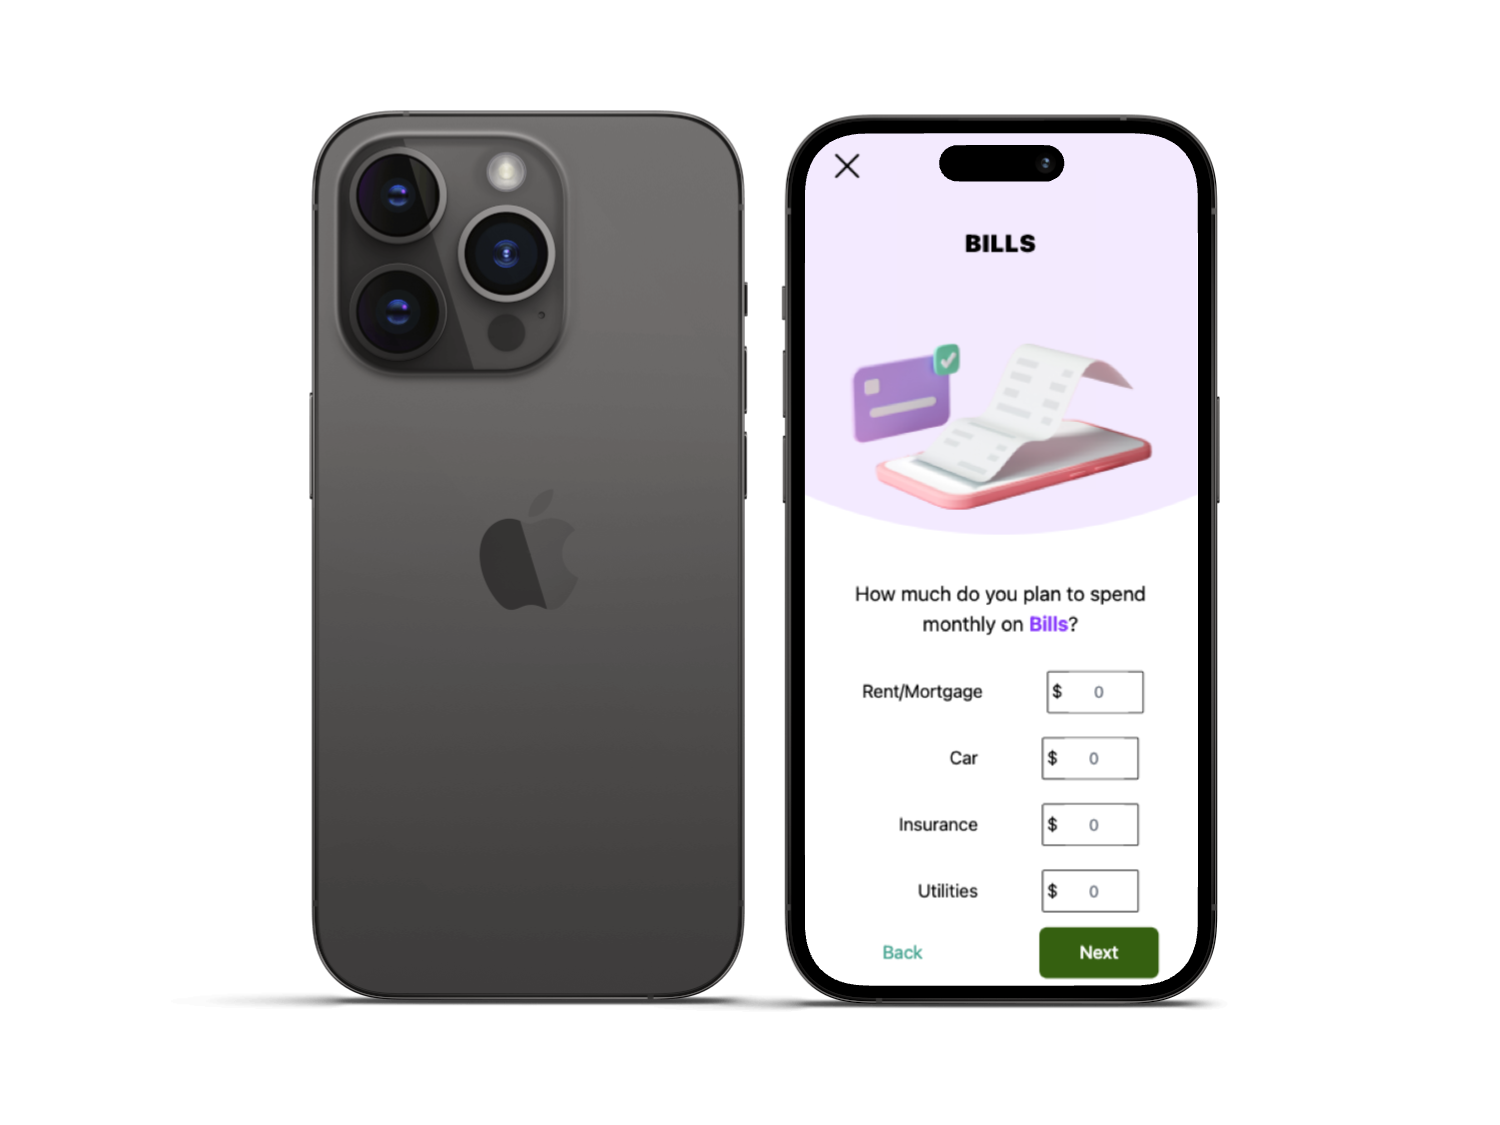
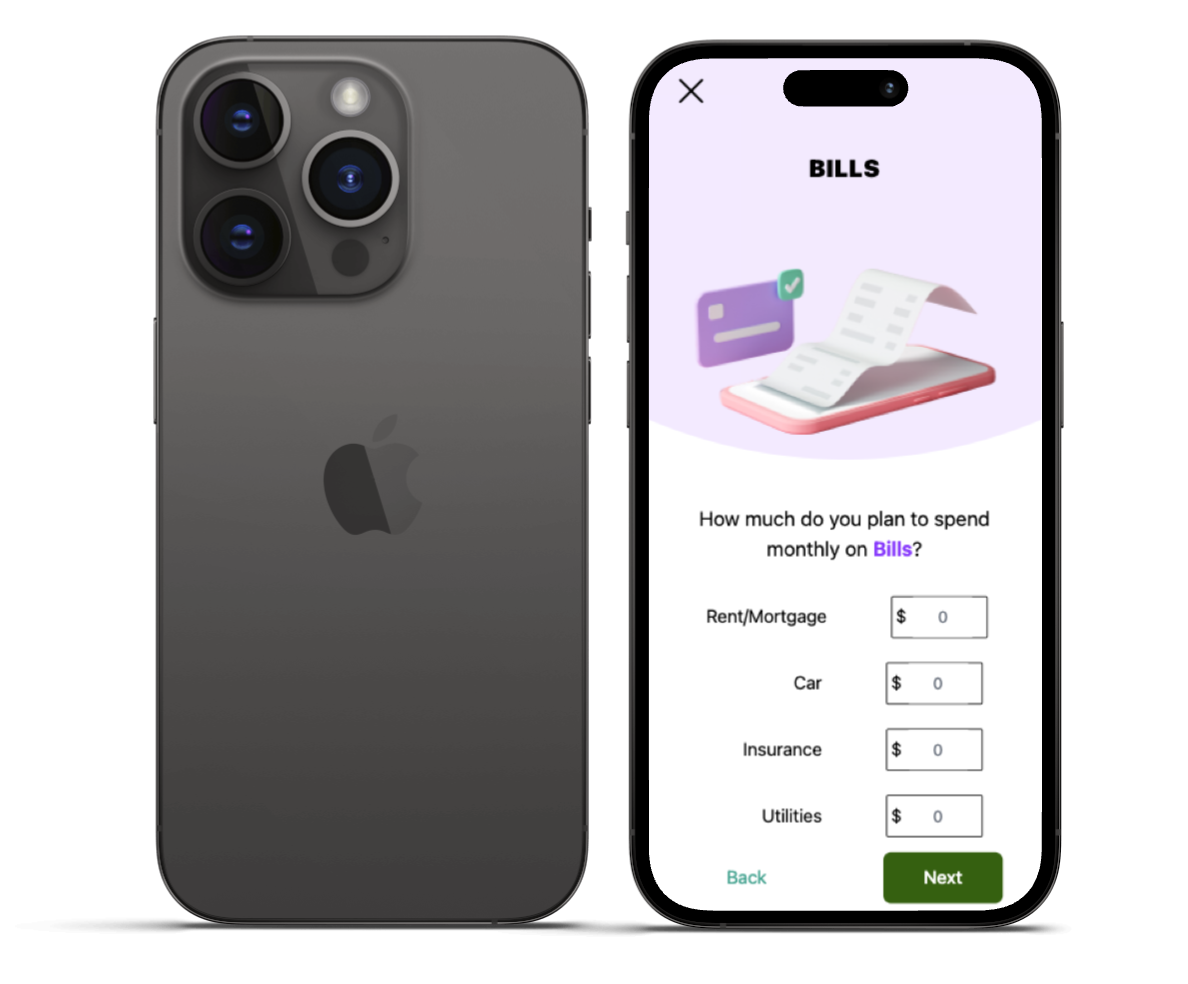
updated readme

Changed region(s): [[0.0934, 0.0305, 0.9032, 0.9756], [0.2492, 0.4268, 0.3737, 0.5488]]

diff --git a/README.md b/README.md
@@ -31,11 +31,31 @@ The visuals help to intuitively manage your budget, ensuring that your spending 
 
 ## **Visual Mockups**
 
-![image](/public/iPhone%20X.png)
+<table class="images" width="100%"  style="border:0px solid white; width:100%;">
+    <tr style="border: 0px;">
+        <td width="33%" style="border:0px; width:33%">
+            <img src="./public/newLeaf_screenshots.jpg" />
+        </td>
+        <td width="66%" style="border:0px; width:66.66%">
+            <img src="./public/newLeaf_screenshots_2.jpg" />
+        </td>
+    </tr>
+</table>
 
-![image](/public/iPhone%2014%20Pro.png)
+<table class="images" width="100%"  style="border:0px solid white; width:100%;">
+    <tr style="border: 0px;">
+        <td width="33%" style="border:0px; width:33.33%">
+            <img src="./public/iPhone X.png" />
+        </td>
+        <td width="33%" style="border:0px; width:33.33%">
+            <img src="./public/iPhone%2014%20Pro.png" />
+        </td>
+        <td width="33%" style="border:0px; width:33.33%">
+            <img src="./public/Female%20hand%20holding%20iPhone%2014%20Pro%20mockup%20(Mockuuups%20Studio).png" />
+        </td>
+    </tr>
+</table>
 
-<img src="./public/Female%20hand%20holding%20iPhone%2014%20Pro%20mockup%20(Mockuuups%20Studio).png" width="300"/>
 
 ## **Github**
 
